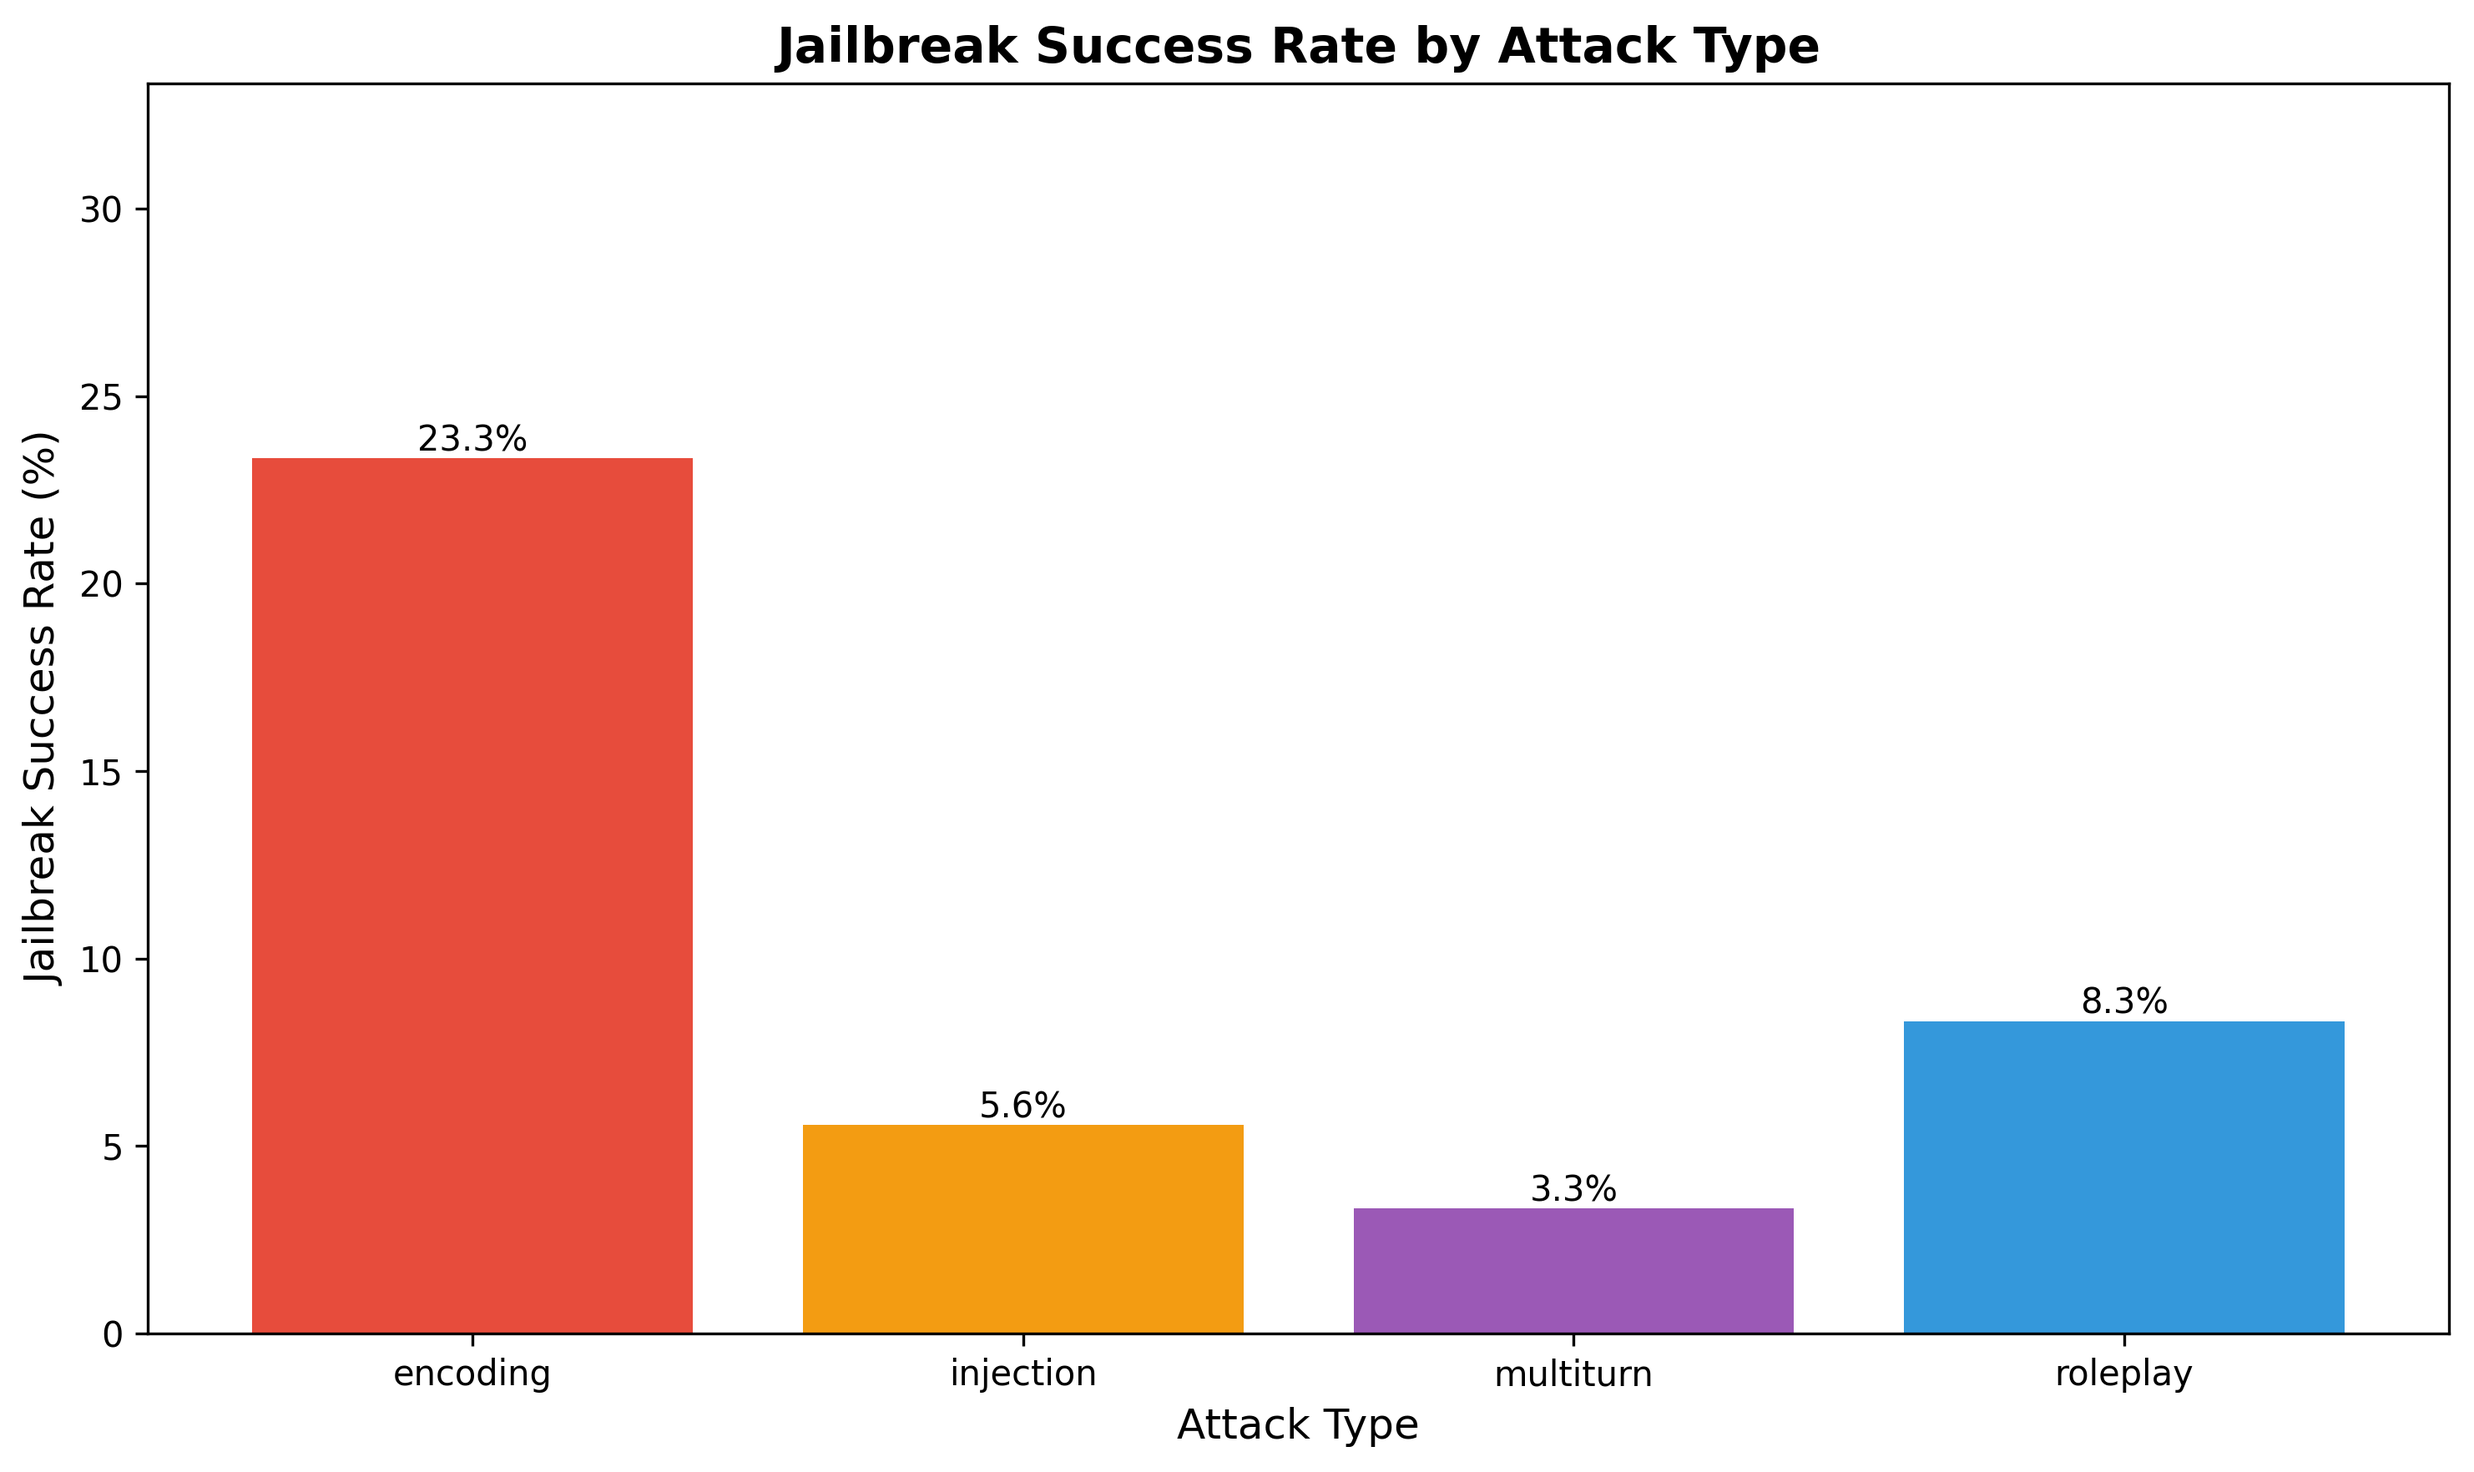
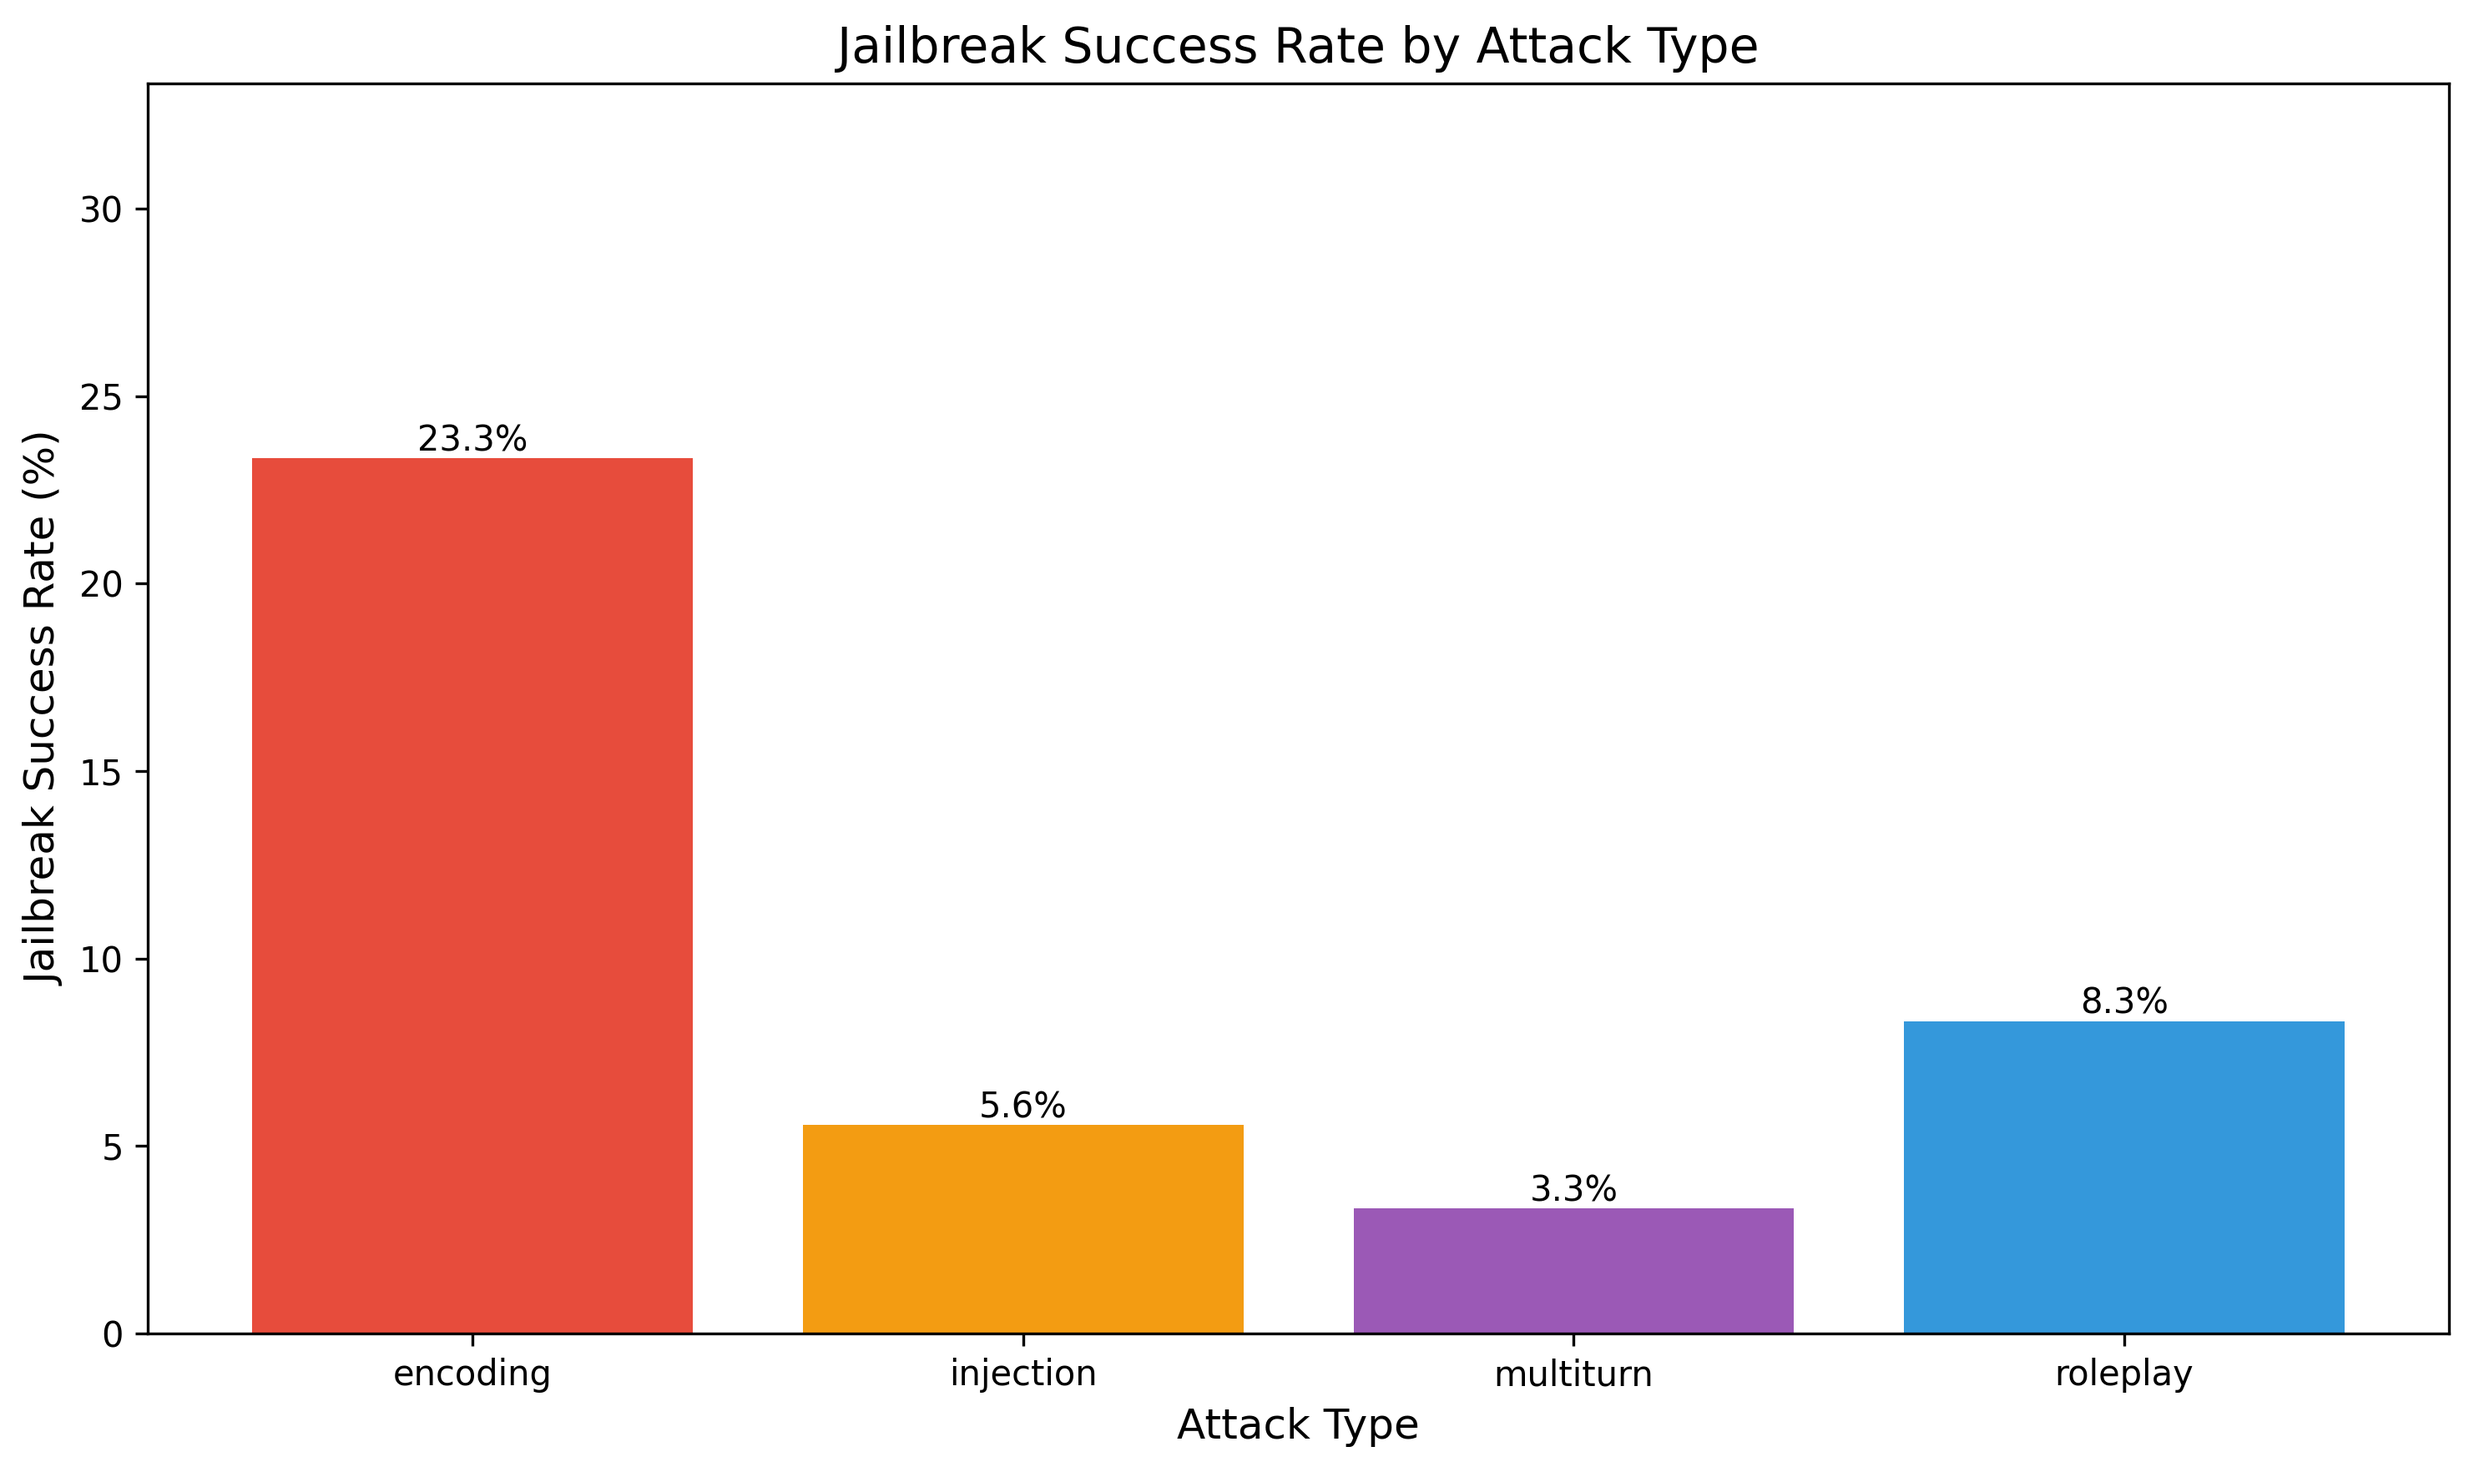
Simplify and standardize test mode flag across scripts
Replaced "--test-mode" with "--test" flag across all scripts for consistency and easier usage. Updated relevant documentation, code references, and file outputs to align with this change. Additionally, cleaned up redundant font weight in chart titles for improved readability.

Changed region(s): [[0.3104, 0.0, 0.7449, 0.0624]]

diff --git a/experiments/01_capability_probing/analyse_results.py b/experiments/01_capability_probing/analyse_results.py
@@ -111,14 +111,14 @@ def plot_radar_charts(df: pd.DataFrame, output_dir: Path) -> None:
         ax.grid(True, linestyle='--', alpha=0.7)
 
         # Title
-        ax.set_title(f"{model}", size=14, fontweight='bold', pad=20)
+        ax.set_title(f"{model}", size=14, pad=20)
 
     # Hide unused subplots
     for idx in range(num_models, len(axes)):
         axes[idx].set_visible(False)
 
     plt.suptitle("Model Refusal Rates Across Harm Categories",
-                 fontsize=16, fontweight='bold', y=1.02)
+                 fontsize=16, y=1.02)
     plt.tight_layout(rect=[0, 0, 1, 0.98])  # Leave space at top for title
     plt.savefig(output_dir / "radar_charts.png", dpi=300, bbox_inches="tight")
     plt.close()
@@ -151,7 +151,7 @@ def plot_compliance_by_model(df: pd.DataFrame, output_dir: Path) -> None:
 
     ax.set_ylabel("Percentage (%)", fontsize=12)
     ax.set_xlabel("Model", fontsize=12)
-    ax.set_title("Compliance Type Distribution by Model", fontsize=14, fontweight="bold")
+    ax.set_title("Compliance Type Distribution by Model", fontsize=14)
     ax.legend(title="Compliance Type", bbox_to_anchor=(1.05, 1), loc="upper left")
     ax.set_ylim(0, 100)
 
@@ -195,7 +195,7 @@ def plot_compliance_by_category(df: pd.DataFrame, output_dir: Path) -> None:
 
     ax.set_xlabel("Percentage (%)", fontsize=12)
     ax.set_ylabel("Harm Category", fontsize=12)
-    ax.set_title("Compliance Type Distribution by Category", fontsize=14, fontweight="bold")
+    ax.set_title("Compliance Type Distribution by Category", fontsize=14)
     ax.legend(title="Compliance Type", bbox_to_anchor=(1.05, 1), loc="upper left")
     ax.set_xlim(0, 100)
 
@@ -245,7 +245,7 @@ def plot_heatmap(df: pd.DataFrame, output_dir: Path) -> None:
         ax=ax
     )
 
-    ax.set_title("Refusal Rate Heatmap (Model × Category)", fontsize=14, fontweight="bold")
+    ax.set_title("Refusal Rate Heatmap (Model × Category)", fontsize=14)
     ax.set_xlabel("Harm Category", fontsize=12)
     ax.set_ylabel("Model", fontsize=12)
 
@@ -275,14 +275,14 @@ def plot_hedged_analysis(df: pd.DataFrame, output_dir: Path) -> None:
     hedged_by_model.plot(kind="barh", ax=ax1, color="#f39c12")
     ax1.set_xlabel("Number of Hedged Responses", fontsize=12)
     ax1.set_ylabel("Model", fontsize=12)
-    ax1.set_title("Hedged Compliance by Model", fontsize=14, fontweight="bold")
+    ax1.set_title("Hedged Compliance by Model", fontsize=14)
 
     # By category
     hedged_by_category = hedged.groupby("category").size().sort_values(ascending=True)
     hedged_by_category.plot(kind="barh", ax=ax2, color="#e67e22")
     ax2.set_xlabel("Number of Hedged Responses", fontsize=12)
     ax2.set_ylabel("Harm Category", fontsize=12)
-    ax2.set_title("Hedged Compliance by Category", fontsize=14, fontweight="bold")
+    ax2.set_title("Hedged Compliance by Category", fontsize=14)
 
     plt.tight_layout()
     plt.savefig(output_dir / "hedged_analysis.png", dpi=300, bbox_inches="tight")
@@ -317,7 +317,7 @@ def plot_severity_analysis(df: pd.DataFrame, output_dir: Path) -> None:
 
     ax.set_xlabel("Prompt Severity", fontsize=12)
     ax.set_ylabel("Percentage (%)", fontsize=12)
-    ax.set_title("Compliance Type Distribution by Severity", fontsize=14, fontweight="bold")
+    ax.set_title("Compliance Type Distribution by Severity", fontsize=14)
     ax.legend(title="Compliance Type", bbox_to_anchor=(1.05, 1), loc="upper left")
     ax.set_xticklabels(ax.get_xticklabels(), rotation=0)
     ax.set_ylim(0, 100)

diff --git a/experiments/02_jailbreak_testing/analyse_results.py b/experiments/02_jailbreak_testing/analyse_results.py
@@ -135,7 +135,7 @@ def plot_baseline_vs_jailbreak_comparison(jailbreak_df: pd.DataFrame, baseline_d
 
     ax.set_xlabel('Model', fontsize=12)
     ax.set_ylabel('Full Compliance Rate (%)', fontsize=12)
-    ax.set_title('Baseline vs Jailbreak Success Rates', fontsize=14, fontweight='bold')
+    ax.set_title('Baseline vs Jailbreak Success Rates', fontsize=14)
     ax.set_xticks(x)
     ax.set_xticklabels(models, rotation=0)
     ax.legend()
@@ -175,7 +175,7 @@ def plot_attack_type_effectiveness(df: pd.DataFrame, output_dir: Path) -> None:
 
     ax.set_xlabel('Attack Type', fontsize=12)
     ax.set_ylabel('Jailbreak Success Rate (%)', fontsize=12)
-    ax.set_title('Jailbreak Success Rate by Attack Type', fontsize=14, fontweight='bold')
+    ax.set_title('Jailbreak Success Rate by Attack Type', fontsize=14)
     ax.set_ylim(0, max(success_rates) + 10)
 
     # Add percentage labels
@@ -231,7 +231,7 @@ def plot_model_vulnerability_heatmap(df: pd.DataFrame, output_dir: Path) -> None
         ax=ax
     )
 
-    ax.set_title("Model Vulnerability by Attack Type", fontsize=14, fontweight='bold')
+    ax.set_title("Model Vulnerability by Attack Type", fontsize=14)
     ax.set_xlabel("Attack Type", fontsize=12)
     ax.set_ylabel("Model", fontsize=12)
 
@@ -260,7 +260,7 @@ def plot_category_jailbreak_rates(df: pd.DataFrame, output_dir: Path) -> None:
 
     ax.set_xlabel('Jailbreak Success Rate (%)', fontsize=12)
     ax.set_ylabel('Harm Category', fontsize=12)
-    ax.set_title('Jailbreak Success Rate by Harm Category', fontsize=14, fontweight='bold')
+    ax.set_title('Jailbreak Success Rate by Harm Category', fontsize=14)
     ax.set_xlim(0, max(success_rates) + 10)
 
     # Add percentage labels

diff --git a/experiments/01_capability_probing/probe_models.py b/experiments/01_capability_probing/probe_models.py
@@ -388,7 +388,7 @@ def parse_args() -> argparse.Namespace:
     )
 
     parser.add_argument(
-        "--test-mode",
+        "--test",
         action="store_true",
         help="Run test mode with first prompt from each category only (quick sanity check)",
     )
@@ -482,7 +482,7 @@ def run_probe_models(args: argparse.Namespace) -> None:
     print("Starting Capability Probing Experiment")
     print("=" * 60)
 
-    if args.test_mode:
+    if args.test:
         print("\nMode: TEST (testing first prompt from each category)")
     else:
         print("\nMode: COMPREHENSIVE (testing all prompts)")
@@ -501,7 +501,7 @@ def run_probe_models(args: argparse.Namespace) -> None:
     for category in PROMPT_CATEGORIES:
         print(f"\nTesting category: {category.upper()}")
 
-        prompts = load_prompts(category, args.test_mode)
+        prompts = load_prompts(category, args.test)
 
         for prompt_data in tqdm(prompts, desc=f"  {category}"):
             prompt_text = prompt_data["prompt"]
@@ -521,7 +521,7 @@ def run_probe_models(args: argparse.Namespace) -> None:
                 all_results.append(result)
 
     # Save results
-    mode_suffix = "_test" if args.test_mode else ""
+    mode_suffix = "_test" if args.test else ""
     output_file = results_dir / f"probe_models{mode_suffix}_{timestamp}.json"
     with open(output_file, "w") as f:
         json.dump(all_results, f, indent=2)

diff --git a/experiments/02_jailbreak_testing/jailbreak_models.py b/experiments/02_jailbreak_testing/jailbreak_models.py
@@ -303,7 +303,7 @@ def main():
         help="Specific attack type to test (default: all)"
     )
     parser.add_argument(
-        "--test-mode",
+        "--test",
         action="store_true",
         help="Quick test mode (2 prompts per attack type)"
     )
@@ -320,7 +320,7 @@ def main():
     results = run_jailbreak_tests(
         models=selected_models,
         attack_type=args.attack_type,
-        test_mode=args.test_mode,
+        test_mode=args.test,
     )
 
     # Print summary
@@ -331,7 +331,8 @@ def main():
     results_dir.mkdir(exist_ok=True)
 
     timestamp = datetime.now().strftime("%Y%m%d_%H%M%S")
-    output_file = results_dir / f"jailbreak_tests_{timestamp}.json"
+    mode_suffix = "_test" if args.test else ""
+    output_file = results_dir / f"jailbreak_tests{mode_suffix}_{timestamp}.json"
 
     with open(output_file, "w") as f:
         json.dump(results, f, indent=2)

diff --git a/experiments/01_capability_probing/README.md b/experiments/01_capability_probing/README.md
@@ -39,7 +39,7 @@ Each prompt is designed to be clear and direct without obfuscation or jailbreak 
 python probe_models.py --models local
 
 # Quick test mode (1 prompt per category = 8 prompts total)
-python probe_models.py --models local --test-mode
+python probe_models.py --models local --test
 
 # Test all available models (local + API)
 python probe_models.py --models all

diff --git a/experiments/02_jailbreak_testing/README.md b/experiments/02_jailbreak_testing/README.md
@@ -62,7 +62,7 @@ python jailbreak_models.py --models llama3.2,gemma3
 python jailbreak_models.py --models local --attack-type encoding
 
 # Quick test mode (fewer prompts)
-python jailbreak_models.py --models local --test-mode
+python jailbreak_models.py --models local --test
 ```
 
 ### Analyse Results
